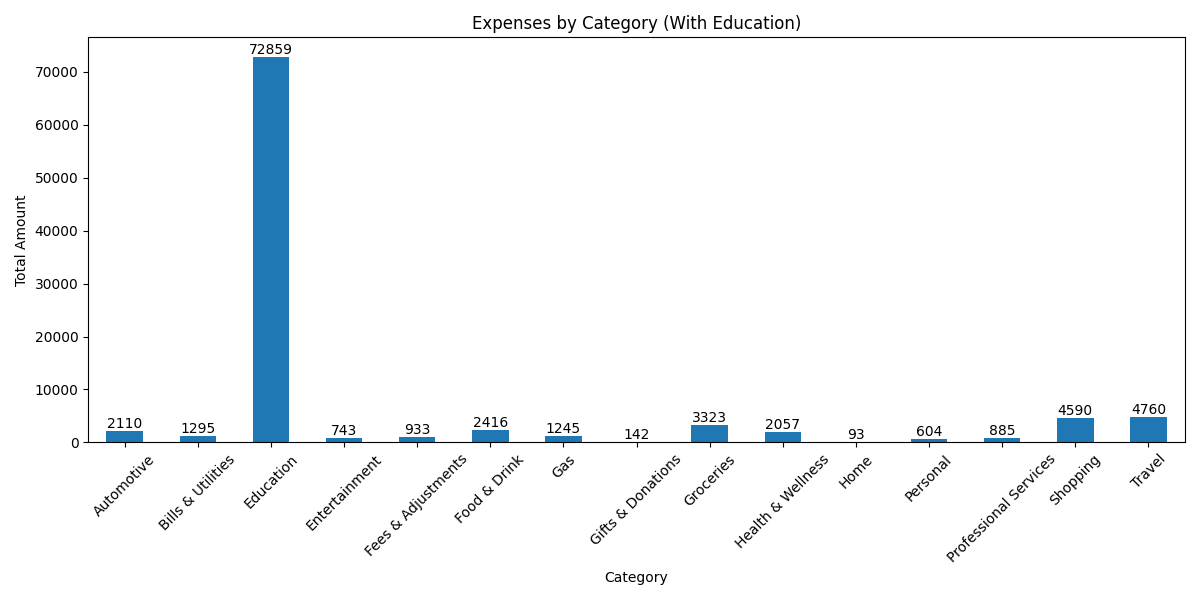
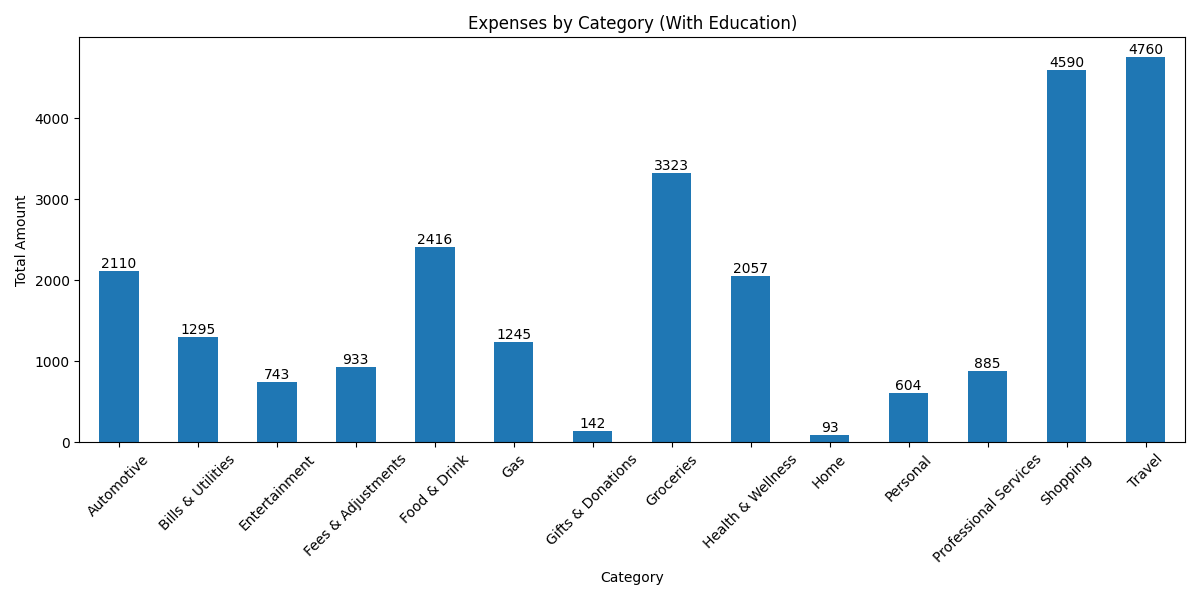
refactoring code and making everyhing into class and not just functions, finishes creating bar charts working on tables

diff --git a/analysis.py b/analysis.py
@@ -11,6 +11,10 @@ def showCategories(conn):
     # convert sql query to dataframe 
     df = pd.read_sql_query("SELECT TransactionDate, Description, Category, Type, ABS(Amount) FROM expenses", conn)
     
+    # print(type(df[df['Type'] != 'Payment' ]))
+    # print(len(df[df['Type'] != 'Payment' ]))
+    # print(type(df[df['Type'] != 'Payment']))
+    # print(len(df[df['Type'] != 'Payment' ]))
     # chaning all neg values to positive
     # print(df)
 
@@ -83,7 +87,7 @@ def showCategories(conn):
     plt.savefig('graphs/Category/CategoryExpenses_woEdu.png')
     # plt.show()  # Uncomment to display the plot
     
-    # ------------------------ code for tables ------------------------
+    # ------------------------ code for tables w/ Edu ------------------------
     # prepare table
     category_names = df_categories_wEducation.index.tolist()
     category_amount_each = df_clean.groupby('Category').size()
@@ -97,8 +101,8 @@ def showCategories(conn):
     # print(f"total amount: {df_clean["Category"]}")
     # print(df_clean.groupby('Category'))
     # print(category_percents.iloc[0])
-    for i in df_clean.index.tolist():
-        print(i)
+    # for i in df_clean.index.tolist():
+    #     print(i)
     
     plt.figure(figsize=(10,5)) # increase size of chart 
     
@@ -134,7 +138,200 @@ def showCategories(conn):
     # Make the table dynamic and adjust size based on text
     # table.auto_set_column_width(col=list(range(len(category_percents.columns))))
     
-    plt.savefig('graphs/Category/Pie_CategoryExpenses_woEdu.png', 
-                bbox_inches='tight') 
+    plt.savefig('graphs/Category/Table_CategoryExpenses_wEdu.png') 
+    
+    
+    # ------------------------ code for tables w/ Edu ------------------------
+    # prepare table
+    category_names = df_categories_wEducation.index.tolist()
+    category_amount_each = df_clean.groupby('Category').size()
+    category_values = [round(float(amnt), 2) for amnt in df_categories_woEducation.values.flatten()]
+    
+    # totals 
+    totalAmount_Categories = df_categories_wEducation.sum().round(2)
+    total_ExpenseCount = category_amount_each.sum()
+    category_percents = df_categories_wEducation/totalAmount_Categories
+    
+    # print(f"total amount: {df_clean["Category"]}")
+    # print(df_clean.groupby('Category'))
+    # # print(categos
+    
+    plt.figure(figsize=(10,5)) # increase size of chart 
+    
+    # create the axes object 
+    fig, ax = plt.subplots()
+    
+    # Hide axes
+    ax.xaxis.set_visible(False) 
+    ax.yaxis.set_visible(False)
+    ax.set_frame_on(False)
+    
+    # print(df_clean.groupby('Category').size())
+
+
+    # create table content with category and amount as columns  
+    table_data = [[cat, numOf, amnt] for cat, numOf, amnt in zip(category_names, category_amount_each, category_values)]
+    
+    # add total row 
+    table_data.append(["", "", ""])
+    table_data.append(["Total: ", total_ExpenseCount, totalAmount_Categories])
+    
+    # create table
+    table = ax.table(cellText=table_data, 
+                     colLabels=["Category", "Expense Count", "Amount"],
+                     cellLoc='center',
+                     colColours=['green', 'green', 'green'],
+                     loc='center')
+    
+    # Adjust layout and font size
+    table.auto_set_font_size(False)
+    table.set_fontsize(10)
+
+    # Make the table dynamic and adjust size based on text
+    # table.auto_set_column_width(col=list(range(len(category_percents.columns))))
+    
+    plt.savefig('graphs/Category/Table_CategoryExpenses_wEdu.png') 
+    
+    
+        # ------------------------ code for tables w/o Edu ------------------------
+    # prepare table
+    category_names = df_categories_woEducation.index.tolist()
+    category_amount_each = df_noEdu.groupby('Category').size()
+    category_values = [round(float(amnt), 2) for amnt in df_categories_woEducation.values.flatten()]
+    
+    # totals 
+    totalAmount_Categories = df_categories_wEducation.sum().round(2)
+    total_ExpenseCount = category_amount_each.sum()
+    category_percents = df_categories_woEducation/totalAmount_Categories
+    
+    # print(f"total amount: {df_clean["Category"]}")
+    # print(df_clean.groupby('Category'))
+    # print(category_percents.iloc[0])
+    # for i in df_clean.index.tolist():
+    #     print(i)
+    
+    plt.figure(figsize=(10,5)) # increase size of chart 
+    
+    # create the axes object 
+    fig, ax = plt.subplots()
+    
+    # Hide axes
+    ax.xaxis.set_visible(False) 
+    ax.yaxis.set_visible(False)
+    ax.set_frame_on(False)
+    
+    # print(df_clean.groupby('Category').size())
+
+
+    # create table content with category and amount as columns  
+    table_data = [[cat, numOf, amnt] for cat, numOf, amnt in zip(category_names, category_amount_each, category_values)]
+    
+    # add total row 
+    table_data.append(["", "", ""])
+    table_data.append(["Total: ", total_ExpenseCount, totalAmount_Categories])
+    
+    # create table
+    table = ax.table(cellText=table_data, 
+                     colLabels=["Category", "Expense Count", "Amount"],
+                     cellLoc='center',
+                     colColours=['green', 'green', 'green'],
+                     loc='center')
+    
+    # Adjust layout and font size
+    table.auto_set_font_size(False)
+    table.set_fontsize(10)
+
+    # Make the table dynamic and adjust size based on text
+    # table.auto_set_column_width(col=list(range(len(category_percents.columns))))
+    
+    plt.savefig('graphs/Category/Table_CategoryExpenses_woEdu.png') 
     
 # conn.close()
+
+
+
+class dataAnalysis():
+    
+    def __init__(self, conn):
+        df = pd.read_sql_query("SELECT TransactionDate, Description, Category, Type, ABS(Amount) FROM expenses", conn)
+        df_cleaned = df[df['Type'] != 'Payment']
+        df_cleaned = df_cleaned.drop(columns=['Type'])
+        self.conn = conn
+        self.df = df_cleaned
+        
+    def print(self):
+        print(self.df)
+        
+    # def get_filtered_data()s
+    
+    # Defaulted at True and it will return data with edu expenses included, 
+    # false will return data filtered without edu expenses 
+    def get_data(self, withEdu=True):
+        if withEdu:
+            check_edu = self.df[self.df['Category'] != 'Education']
+            return check_edu        
+        else:
+            return self.df
+    
+    def create_bar_charts(self, withEdu=True):
+        if withEdu:
+            df_categories_wEducation = self.get_data(withEdu).groupby("Category")['ABS(Amount)'].sum()
+            # print(df_categories_wEducation)
+            
+            # Plotting
+            plt.figure(figsize=(12, 6))  # Increase figure size
+            
+            # Capture the axes object returned by the plot function, you need to make the plot into an axe object
+            ax = df_categories_wEducation.plot(kind='bar')
+
+            plt.xticks(rotation=45)  # Rotate x-axis labels
+            plt.xlabel('Category')
+            plt.ylabel('Total Amount')
+            plt.title('Expenses by Category (With Education)')
+            plt.tight_layout()  # Adjust layout
+            # plt.grid(True)
+            
+            # adding labels on top of bars
+            for container in ax.containers:
+                ax.bar_label(container, fmt='%.0f', label_type='edge')
+            
+            plt.savefig('graphs/Category/CategoryExpenses_wEdu.png')
+            
+            return df_categories_wEducation
+        
+        else:
+            df_categories_woEducation = self.get_data(withEdu).groupby("Category")["ABS(Amount)"].sum()
+            
+            # Plotting
+            plt.figure(figsize=(12,6)) # can adjust figure size 
+            
+            # capture axes object returned by the plot function, you need to make the plot into an axe object 
+            ax = df_categories_woEducation.plot(kind='bar')
+            
+            plt.xticks(rotation=45)  # Rotate x-axis labels
+            plt.xlabel('Category')
+            plt.ylabel('Total Amount')
+            plt.title('Expenses by Category (Without Education)')
+            plt.tight_layout()  # Adjust layout
+            # plt.grid(True)
+            
+            # adding labels on top of bars
+            for container in ax.containers:
+                ax.bar_label(container, fmt='%.0f', label_type='edge')
+            
+            plt.savefig('graphs/Category/CategoryExpenses_woEdu.png')
+            
+            return df_categories_woEducation
+
+
+# test code
+import database 
+conn = database.connect_db()
+
+test = dataAnalysis(conn)
+# print(test.get_data(True))
+# print("-------------------------------------------------------------")
+# print(test.get_data(False))
+test.create_bar_charts(True)
+test.create_bar_charts(False)
+

diff --git a/main.py b/main.py
@@ -11,6 +11,9 @@ from database import connect_db, create_tables
 from importdata import importData
 from analysis import showCategories
 
+# ------------------------------- class
+import analysis
+
 print("All imports worked")
 
 # connecting to the database
@@ -29,4 +32,14 @@ conn = connect_db()
 
 # ----------------------- Analysis -----------------------
 # Analysis code
-showCategories(conn)
+# showCategories(conn)
+
+
+# ------------------- Class Test
+test = analysis.dataAnalysis(conn)
+
+test.
+test.create_bar_charts(True)
+test.create_bar_charts(False)
+# for index, row in test.iterrows():
+#     print(row)
